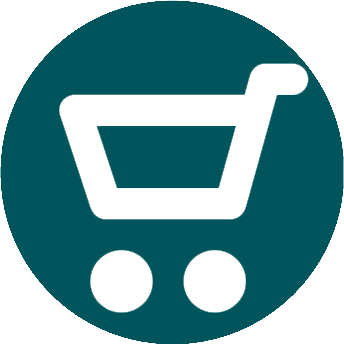
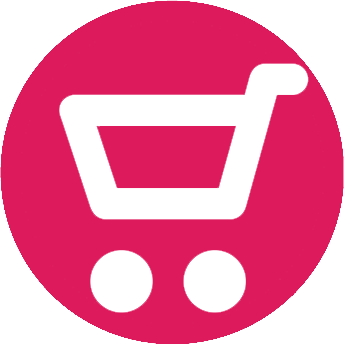
update html css img

diff --git a/css/style.css b/css/style.css
@@ -98,7 +98,7 @@ body{
   font-size: calc(6px + 1vw);
 }
 .header ul li .active{
-  background: #e8a147;
+  background: #dd0861;
 }
 .header .hv-submenu{
   position: relative;
@@ -212,6 +212,7 @@ body{
   display: table;
   width: 100%;
   padding: 10px 10px;
+  background: #dd1b5c;
 }
 .group-tabs ul li{
   display: table-cell;
@@ -232,7 +233,7 @@ body{
 }
 .group-tabs ul li a.active{
   font-weight: 700;
-  background: #e8a147;
+  background: #dd1b5c;
 }
 .group-tabs .tab-content {
   padding: 5px 10px 30px 10px;
@@ -337,25 +338,28 @@ body{
   color: #FFF;
   text-transform: uppercase;
   text-align: center;
-  background: #005831;
+  background: #dd1b5c;
 /*  border: 1px solid #FFF;*/
   border-radius: 10px;
   padding: 10px 7px;
   line-height: 1.5;
+  margin-bottom: 10px;
 }
 .md-main-text .md-text-1 span{
-  color: #e8a147;
+  text-transform: lowercase;
+  display: block;
+}
+.md-main-text .md-text-3{
+  color: #f6ff00;
   display: block;
 }
 .md-main-text .md-text-2{
-  background: #e8a147;
+  background: #af0449;
   color: #FFF;
   border-radius: 10px;
   padding: 5px 7px;
   line-height: 1.5;
   text-align: center;
-  text-transform: uppercase;
-  font-size: calc(10px + 1vw);
   display: block;
   margin-bottom: 5px;
   font-weight: 700;
@@ -476,15 +480,15 @@ body{
   display: table;
   margin: 0 auto;
   background: #f0f0f0;
-  border: 5px solid #00545c;
+  border: 5px solid #dd1b5c;
   padding-bottom: 50%;
   margin-top: 20px;
   margin-bottom: 20px;
 }
 .main-page-dangky h6{
   display: table;
-  margin: 0px auto 20px auto;
-  background: #00545c;
+  margin: 10px auto 20px auto;
+  background: #dd1b5c;
   text-align: center;
   text-transform: uppercase;
   font-weight: 700;
@@ -500,7 +504,7 @@ body{
   display: inline-block;
   display: table;
   margin: 0 auto 10px auto;
-  background: #00545c;
+  background: #dd1b5c;
   text-align: center;
   text-transform: uppercase;
   padding: 10px 10px;
@@ -536,7 +540,7 @@ body{
 }
 .main-page-dangky form input{
   width: 100%;
-  border: 2px solid #005831;
+  border: 2px solid #dd1b5c;
   padding: 10px;
   color: #00545c;
 }
@@ -548,7 +552,7 @@ body{
 }
 .main-page-dangky form .md-col-2 span{
   padding: 10px 5px;
-  color: #00545c;
+  color: #dd1b5c;
   font-weight: 600;
   display: table;
   margin: 0 auto;
@@ -558,10 +562,10 @@ body{
   display: table;
   margin: 0 auto;
   width: 40%;
-  background: #e8a147;
+  background: #dd1b5c;
   margin-bottom: 0px;
   color: #FFF;
-  border: 2px solid #e8a147;
+  border: 2px solid #dd1b5c;
   cursor: pointer;
   border-radius: 20px;
 }
@@ -621,10 +625,12 @@ body{
 }
 .main-page-thanhtoan .md-text-2{
   font-size: calc(15px + 1vw);
+  color: #dd1b5c;
 }
 .main-page-thanhtoan .md-text-3{
   font-size: calc(15px + 1vw);
   font-weight: 700;
+  color: #dd1b5c;
 }
 .main-page-dangky-2{
   padding: 5% 10px 10%;
@@ -633,7 +639,7 @@ body{
   float: left;
   width: 24%;
   margin-right: 1.3%;
-  border: 5px solid #00545c;
+  border: 5px solid #dd1b5c;
   border-top: 0px;
   background: #f0f0f0;
   color: #00545c;
@@ -648,13 +654,14 @@ body{
   padding: 10px 0px 15px 0px;
   color: #FFF;
   
-  background: #00545c;
+  background: #dd1b5c;
 }
 .main-page-dangky-2 .md-col p{
   font-size: calc(6px + 1vw);
   margin-bottom: 15px;
   text-align: left;
   padding: 0px 10px;
+  color: #dd1b5c;
 }
 .main-page-dangky-2 .md-col p img{
   width: 10%;
@@ -671,7 +678,7 @@ body{
   padding: 30px 0px;
 }
 .main-page-dangky-2 .md-col a{
-  background: #00545c;
+  background: #dd1b5c;
   font-size: calc(10px + 1vw);
   padding: 10px 10px;
   display: inline-block;

diff --git a/home-page.html b/home-page.html
@@ -110,7 +110,24 @@
 	       				<div class="md-col-3 mg-r0" data-fancybox="" data-src="#md-img-4" href="javascript:;">
 	       					<img src="./images/img-test.jpg" alt="">
 	       				</div>
+	       			
+		       		</div>
+		       		<div class="md-row clearfix">
+		       			<div class="md-col-3" data-fancybox="" data-src="#md-img-1" href="javascript:;">
+	       					<img src="./images/img-test.jpg" alt="">
+	       				</div>
 	       				
+	       				<div class="md-col-3 mg-r0" data-fancybox="" data-src="#md-img-2" href="javascript:;">
+	       					<img src="./images/img-test-2.jpg" alt="">
+	       				</div>
+	       				
+	       				<div class="md-col-3" data-fancybox="" data-src="#md-img-3" href="javascript:;">
+	       					<img src="./images/img-test.jpg" alt="">
+	       				</div>
+	       				<div class="md-col-3 mg-r0" data-fancybox="" data-src="#md-img-4" href="javascript:;">
+	       					<img src="./images/img-test.jpg" alt="">
+	       				</div>
+	       			
 		       		</div>
 	       		<div class="md-img-nav" id="md-img-1"><img src="./images/img-test.jpg" alt=""><a href="#">Tải file thiết kế</a></div>
 	       		<div class="md-img-nav" id="md-img-2"><img src="./images/img-test-2.jpg" alt=""><a href="#">Tải file thiết kế</a></div>
@@ -181,8 +198,11 @@
 	       </div>
 
 	       <div class="md-main-text">
-	       	<p class="md-text-1">Hỗ trợ cài đặt các phần mềm đồ họa tool quảng cáo <br> chăm sóc khách hàng bảo hành trọn đời<span>0769.418.418 - 0565.418.418</span></p>
-	       	<a href="#" class="md-text-2">MUA TẢI KHOẢN<br> TẢI FILE</a>
+	       	<div class="md-text-1">
+	       		<p>Hỗ trợ cài đặt các phần mềm đồ họa tool quảng cáo <span>COREL - PHOTOSHOP - ILLUSTRATOR - SKETCHUP - AUTOCAD 3DMAX - PREAMIA -AFTEREFECT - VRAY - WINDOW - WORD - EXCEL -POWERPOL -CAPCUT PRO - CANVA PhẦN MỀM DIỆT VIRUS KASPERSKY - BKAV...</span></p>
+	       		<p class="md-text-3">Hotline: 0838.418.418</p>
+	       	</div>
+	       	<a href="#" class="md-text-2">Chăm sóc khách hàng<br> 0565.418.418 - 0769.418.418</a>
 	       	<!-- <a href="#" class="text-dfile">Tải ngay</a> -->
 	       	<!-- <img src="./images/img-4.png" alt=""> -->
 
@@ -211,7 +231,7 @@
 	          <li role="presentation" class="md-nav-2"><a href="#nav-20" aria-controls="nav-20" role="tab" data-toggle="tab">Standy</a></li>
 	      </ul>
 	     </div>
-	     
+
 </main>
 
 <script src="vendor/jquery/jquery-3.4.1.min.js" type="text/javascript"></script>
